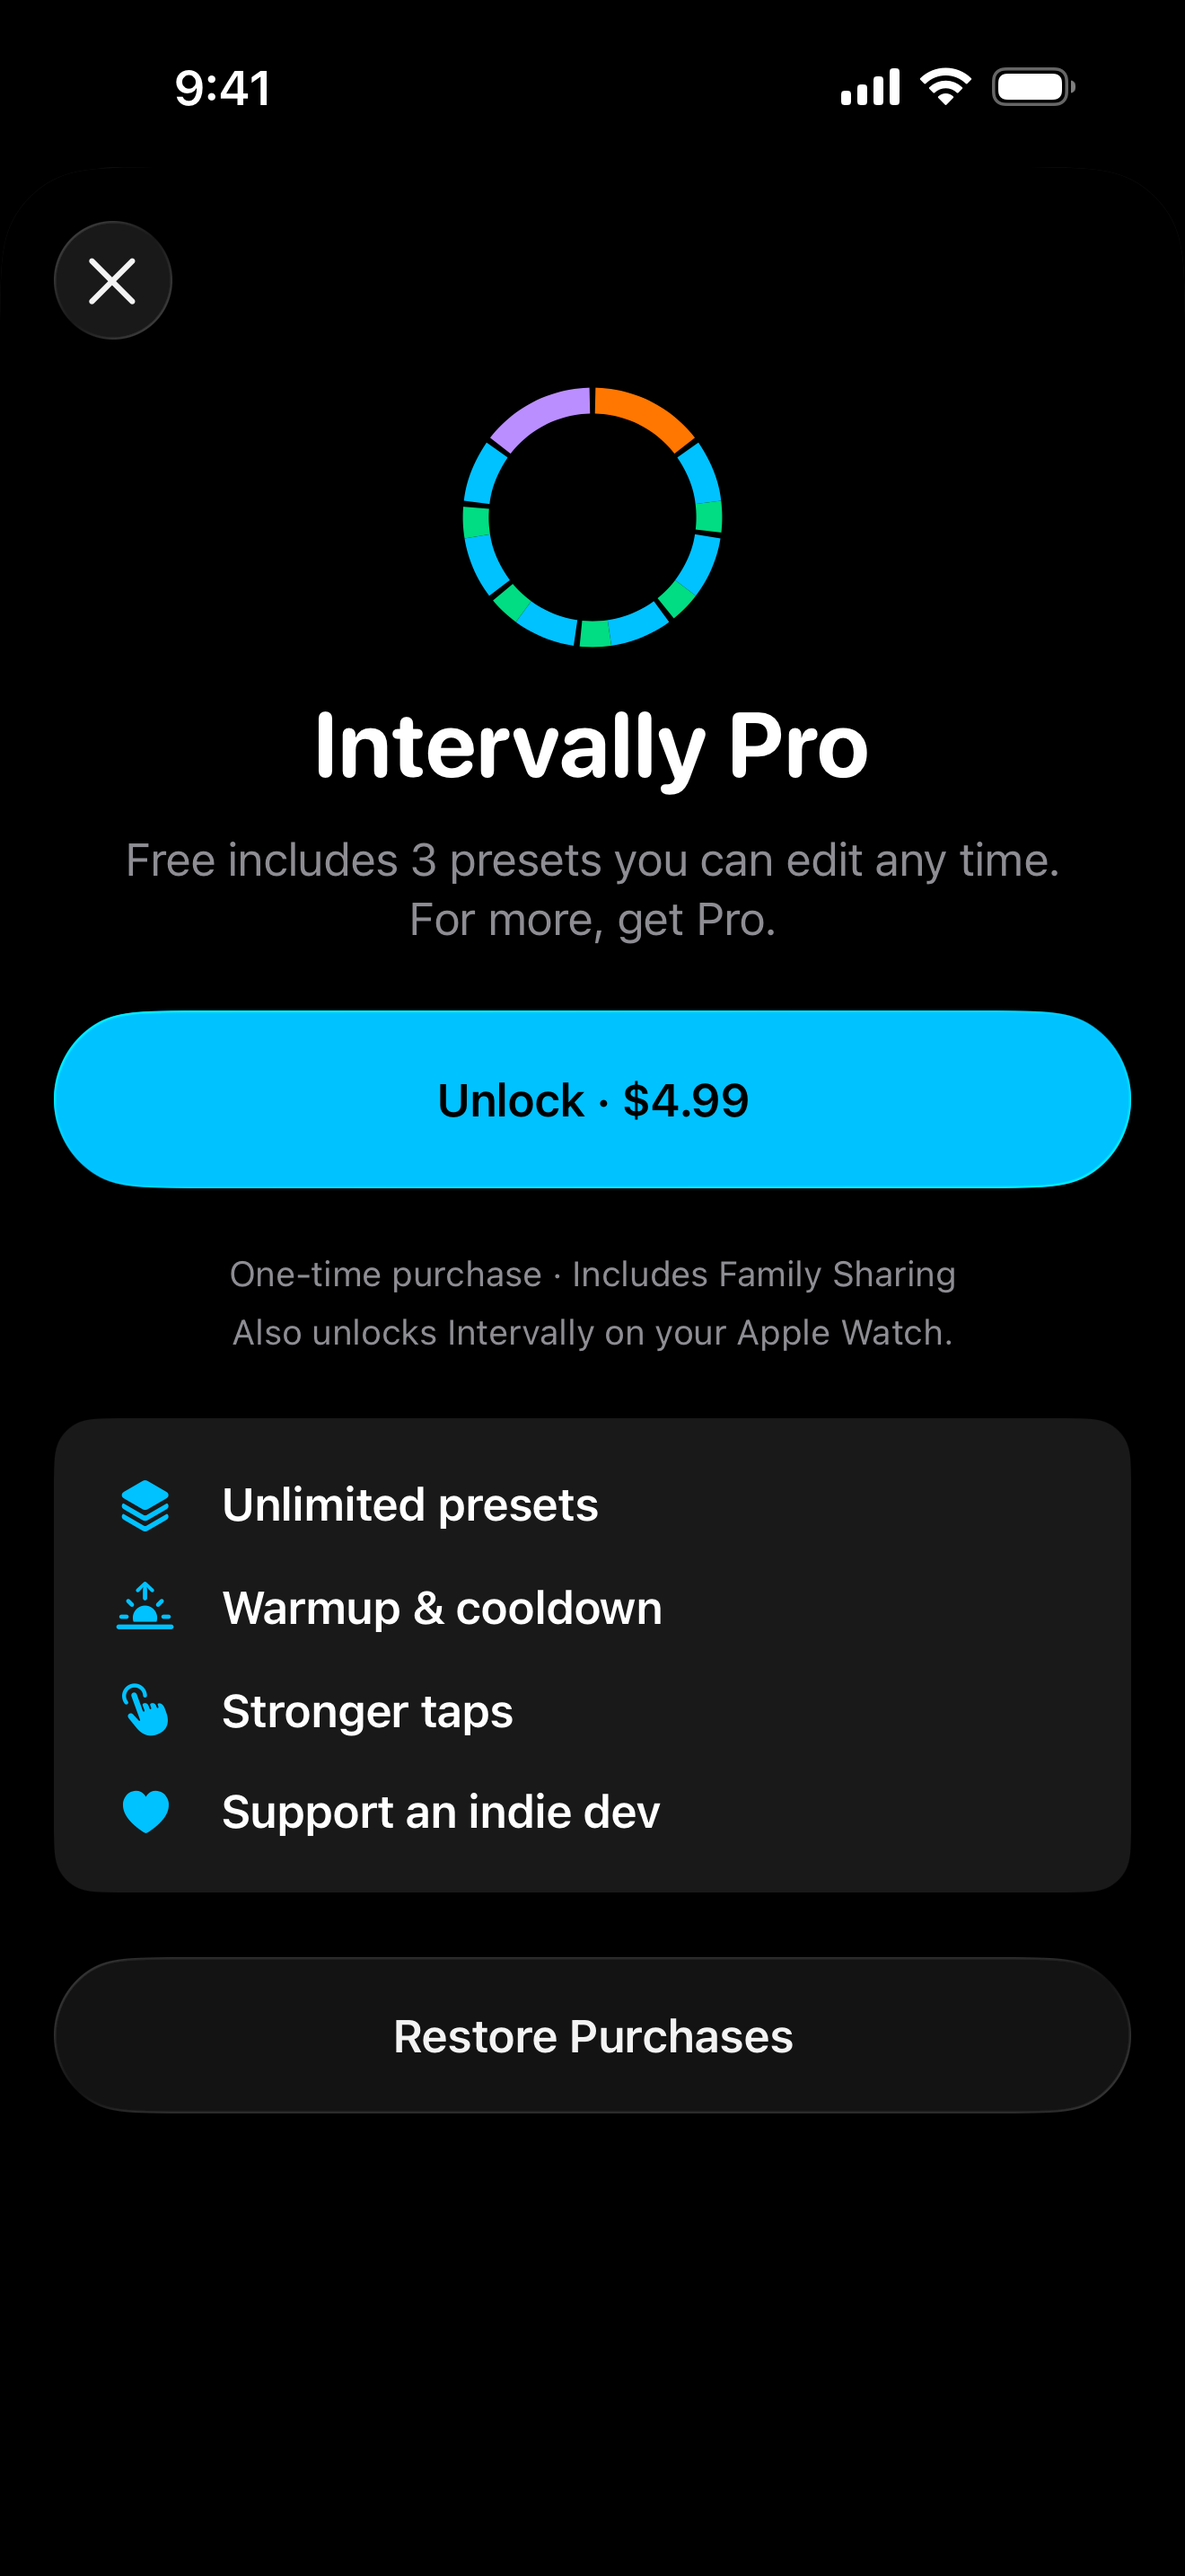
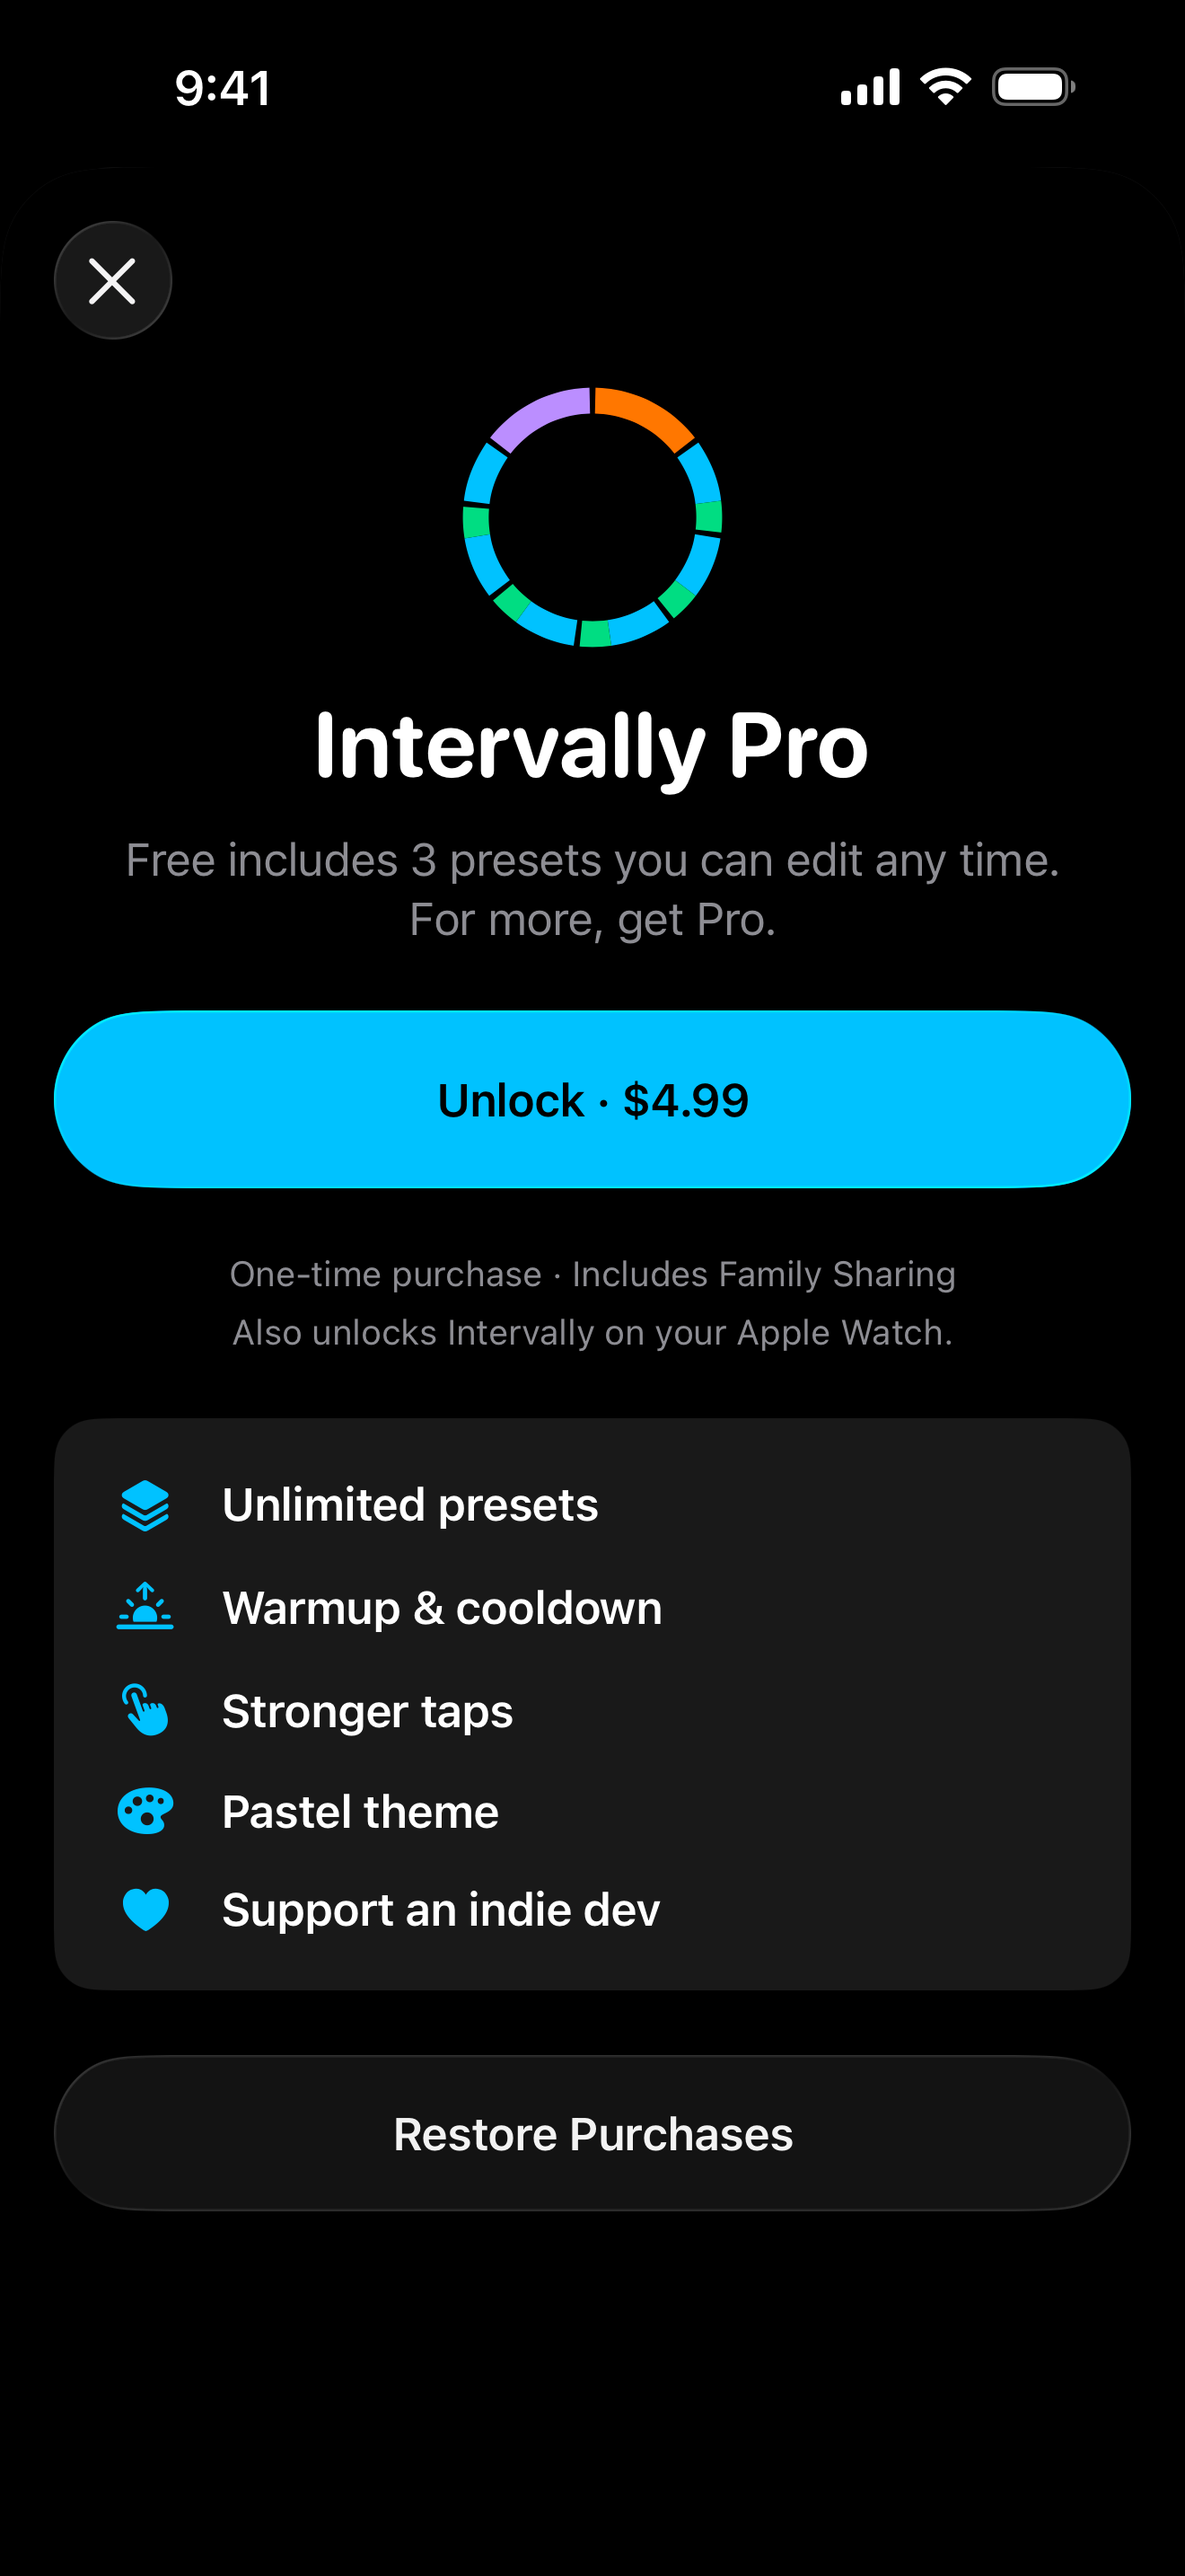
Fix themed sheets, finish the Pastel paywall however Pro arrives, ready build 2
From the bug sweep of everything since build 1:

- A sheet already on screen kept the appearance it was presented with. A
  theme chosen inside Settings (or synced from the watch, or a lapse of Pro)
  left it half in the old mode: Pastel's canvas under white text, or black
  text on black. paletteSheet() gives each iPhone sheet (Settings from both
  tabs, both paywalls, the value picker) the palette's own appearance and
  tint. Checked on IV-Phone by switching both ways inside the open sheet.
- The Theme paywall only chose Pastel after a purchase or restore from its
  own buttons. Pro arriving another way while it was open (Ask to Buy
  approval, the other device's purchase, Family Sharing) left the theme
  unchanged. Both devices now finish on any change to Pro, exactly once.

Ship assets:

- A sixth iPhone screenshot at both sizes: "INTERVALLY PRO · Make it yours
  with Pastel", Workouts in Pastel. The other five recompose byte-identical.
- Retake the In-App Purchase review screenshot, which now lists the
  paywall's five features.
- Build number 2.

Watch 571 and iPhone 297 tests pass.

Changed region(s): [[0.0311, 0.6827, 0.9629, 0.8379]]

diff --git a/Phone/Settings/PhoneSettingsView.swift b/Phone/Settings/PhoneSettingsView.swift
@@ -62,6 +62,13 @@ struct PhoneSettingsView: View {
         return "\(short) (\(build))"
     }
 
+    /// Once, however Pro arrived: chooses Pastel and goes back to the picker.
+    private func finishThemePaywall() {
+        guard path.last == .themePaywall else { return }
+        theme.paywallUnlocked()
+        path.removeLast()
+    }
+
     var body: some View {
         NavigationStack(path: $path) {
             List {
@@ -144,11 +151,13 @@ struct PhoneSettingsView: View {
                 case .theme: ThemePickerView { path.append(.themePaywall) }
                 case .themePaywall:
                     // A purchase here applies what was reached for, then goes back to the
-                    // picker to show it chosen.
-                    PhonePaywallView(context: .themes) {
-                        theme.paywallUnlocked()
-                        if path.last == .themePaywall { path.removeLast() }
-                    }
+                    // picker to show it chosen. Pro can also arrive while this is open without
+                    // its buttons (an Ask to Buy approval, the other device's purchase, Family
+                    // Sharing), and finishes the same way.
+                    PhonePaywallView(context: .themes) { finishThemePaywall() }
+                        .onChange(of: pro.isPro) { _, isPro in
+                            if isPro { finishThemePaywall() }
+                        }
                 }
             }
             .alert(notice?.title ?? "", isPresented: isShowingNotice, presenting: notice) { _ in

diff --git a/Core/Theme.swift b/Core/Theme.swift
@@ -329,6 +329,15 @@ extension View {
         modifier(PaletteRoot(palette: palette))
     }
 
+    /// A sheet's content. A sheet already on screen keeps the appearance it was presented
+    /// with, whatever the root asks later, so a theme chosen inside Settings (or arriving
+    /// from the watch, or a lapse of Pro) left an open sheet in the old light or dark mode:
+    /// Pastel's canvas under white text, or black text on black. Each sheet asks for the
+    /// palette's own appearance and tint. Nothing on the watch, whose screens stay dark.
+    func paletteSheet() -> some View {
+        modifier(PaletteSheet())
+    }
+
     /// A bar button or a neutral glass control: grey glass with the label in the label
     /// colour, in every theme, as Classic draws it, rather than in the root's accent.
     func neutralGlass() -> some View {
@@ -361,6 +370,20 @@ private struct NeutralGlass: ViewModifier {
 
     func body(content: Content) -> some View {
         content.tint(palette.glassTint)
+    }
+}
+
+private struct PaletteSheet: ViewModifier {
+    @Environment(\.palette) private var palette
+
+    func body(content: Content) -> some View {
+        #if os(iOS)
+        content
+            .tint(palette.accent)
+            .preferredColorScheme(palette.colorScheme)
+        #else
+        content
+        #endif
     }
 }
 

diff --git a/Sources/Views/ThemeView.swift b/Sources/Views/ThemeView.swift
@@ -35,11 +35,20 @@ struct ThemeView: View {
         .navigationBarTitleDisplayMode(.inline)
         // Pushed inside Settings' own stack, like every way into the paywall.
         .navigationDestination(isPresented: $showsPaywall) {
-            PaywallView(context: .themes) {
-                theme.paywallUnlocked()
-                showsPaywall = false
-            }
+            PaywallView(context: .themes) { finishPaywall() }
         }
+        // Pro can also arrive while the paywall is open without its buttons: an Ask to Buy
+        // approval, the iPhone's purchase, Family Sharing. It finishes the same way.
+        .onChange(of: pro.isPro) { _, isPro in
+            if isPro { finishPaywall() }
+        }
+    }
+
+    /// Once, however Pro arrived: chooses Pastel and closes the paywall.
+    private func finishPaywall() {
+        guard showsPaywall else { return }
+        theme.paywallUnlocked()
+        showsPaywall = false
     }
 
     private func optionRow(_ option: AppTheme, shown: AppTheme) -> some View {

diff --git a/Phone/Editor/PresetEditorView.swift b/Phone/Editor/PresetEditorView.swift
@@ -102,6 +102,7 @@ struct PresetEditorView: View {
                     ValuePickerSheet(field: field, value: workout[keyPath: field.keyPath]) { value in
                         set(field, to: value)
                     }
+                    .paletteSheet()
                 }
             case .paywall(let context):
                 NavigationStack {
@@ -110,6 +111,7 @@ struct PresetEditorView: View {
                         self.sheet = nil
                     }
                 }
+                .paletteSheet()
             }
         }
         #if DEBUG

diff --git a/PhoneTests/ShipAssetsTests.swift b/PhoneTests/ShipAssetsTests.swift
@@ -55,7 +55,7 @@ struct ShipAssetsTests {
         let large = try Self.pngs(in: "iPhone-6.9").map(\.lastPathComponent)
         let small = try Self.pngs(in: "iPhone-6.3").map(\.lastPathComponent)
         #expect(large == small)
-        #expect(large.count == 5)
+        #expect(large.count == 6)
     }
 
     @Test("The In-App Purchase review screenshot is a 6.9-inch capture with no alpha")

diff --git a/Phone/Workouts/WorkoutsView.swift b/Phone/Workouts/WorkoutsView.swift
@@ -106,8 +106,10 @@ struct WorkoutsView: View {
                         self.sheet = nil
                     }
                 }
+                .paletteSheet()
             case .settings:
                 PhoneSettingsView()
+                    .paletteSheet()
             }
         }
         #if DEBUG

diff --git a/Phone/History/HistoryView.swift b/Phone/History/HistoryView.swift
@@ -93,6 +93,7 @@ struct HistoryView: View {
         }
         .sheet(isPresented: $showsSettings) {
             PhoneSettingsView()
+                .paletteSheet()
         }
         .onAppear {
             Task { await history.appear() }

diff --git a/AppStore/Screenshots/compose.py b/AppStore/Screenshots/compose.py
@@ -27,6 +27,7 @@ SHOTS = [
     ('3-pro-editor', 'INTERVALLY PRO', ['Add a warmup', 'and a cooldown'], True),
     ('4-history', 'HISTORY', ['Every session,', 'interval by interval'], False),
     ('5-session', 'SESSION', ['Your heart rate,', 'every interval'], False),
+    ('6-pastel', 'INTERVALLY PRO', ['Make it yours', 'with Pastel'], True),
 ]
 
 # Fractions of the canvas width, so both display sizes share one layout.

diff --git a/AppStore/Metadata.md b/AppStore/Metadata.md
@@ -209,6 +209,7 @@ The same five shots from an iPhone 17 Pro simulator.
 | `3-pro-editor.png` | INTERVALLY PRO · Add a warmup and a cooldown | EMOM with a 5-minute warmup and a 3-minute cooldown. A Pro feature, so the caption names Intervally Pro (Guideline 2.3.2) |
 | `4-history.png` | HISTORY · Every session, interval by interval | History grouped by week, an early end included |
 | `5-session.png` | SESSION · Your heart rate, every interval | A session's ring, totals and heart rate per interval |
+| `6-pastel.png` | INTERVALLY PRO · Make it yours with Pastel | Workouts in the Pastel theme. A Pro feature, so the caption names Intervally Pro (Guideline 2.3.2) |
 
 The captions are drawn by `AppStore/Screenshots/compose.py`, which turns the raw captures
 into these files at the same size. To retake them, in a Debug build:
